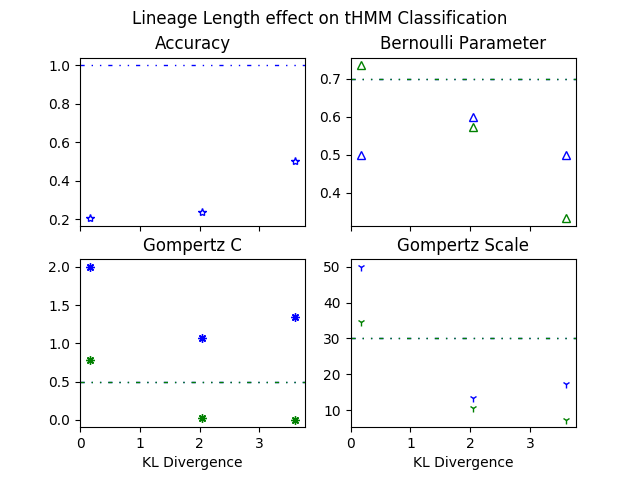
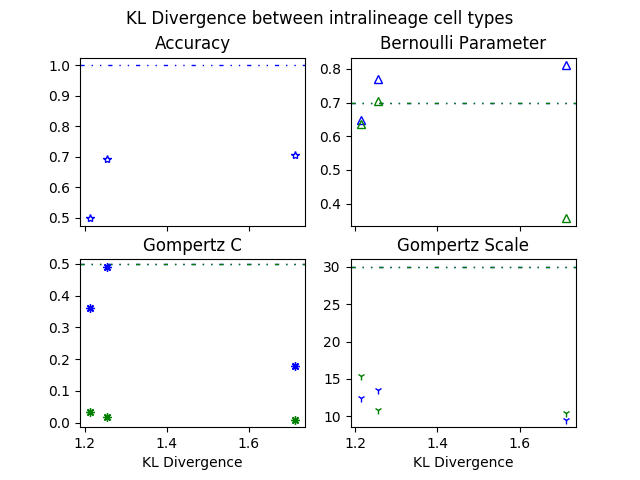
renamed figure3 title

diff --git a/Figure3_2Lineage.py b/Figure3_2Lineage.py
@@ -228,6 +228,6 @@ ax.axhline(y=MASscaleGom, linestyle = (0, (3, 5, 1, 5, 1, 5)), linewidth=1, colo
 ax.axhline(y=scaleGom2, linestyle = (0, (3, 5, 1, 5, 1, 5)), linewidth=1, color='g')
 ax.set_title('Gompertz Scale')
 
-fig.suptitle('Lineage Length effect on tHMM Classification')
+fig.suptitle('KL Divergence between intralineage cell types')
 
 plt.savefig('TEST_KLdiv_classification.png')
